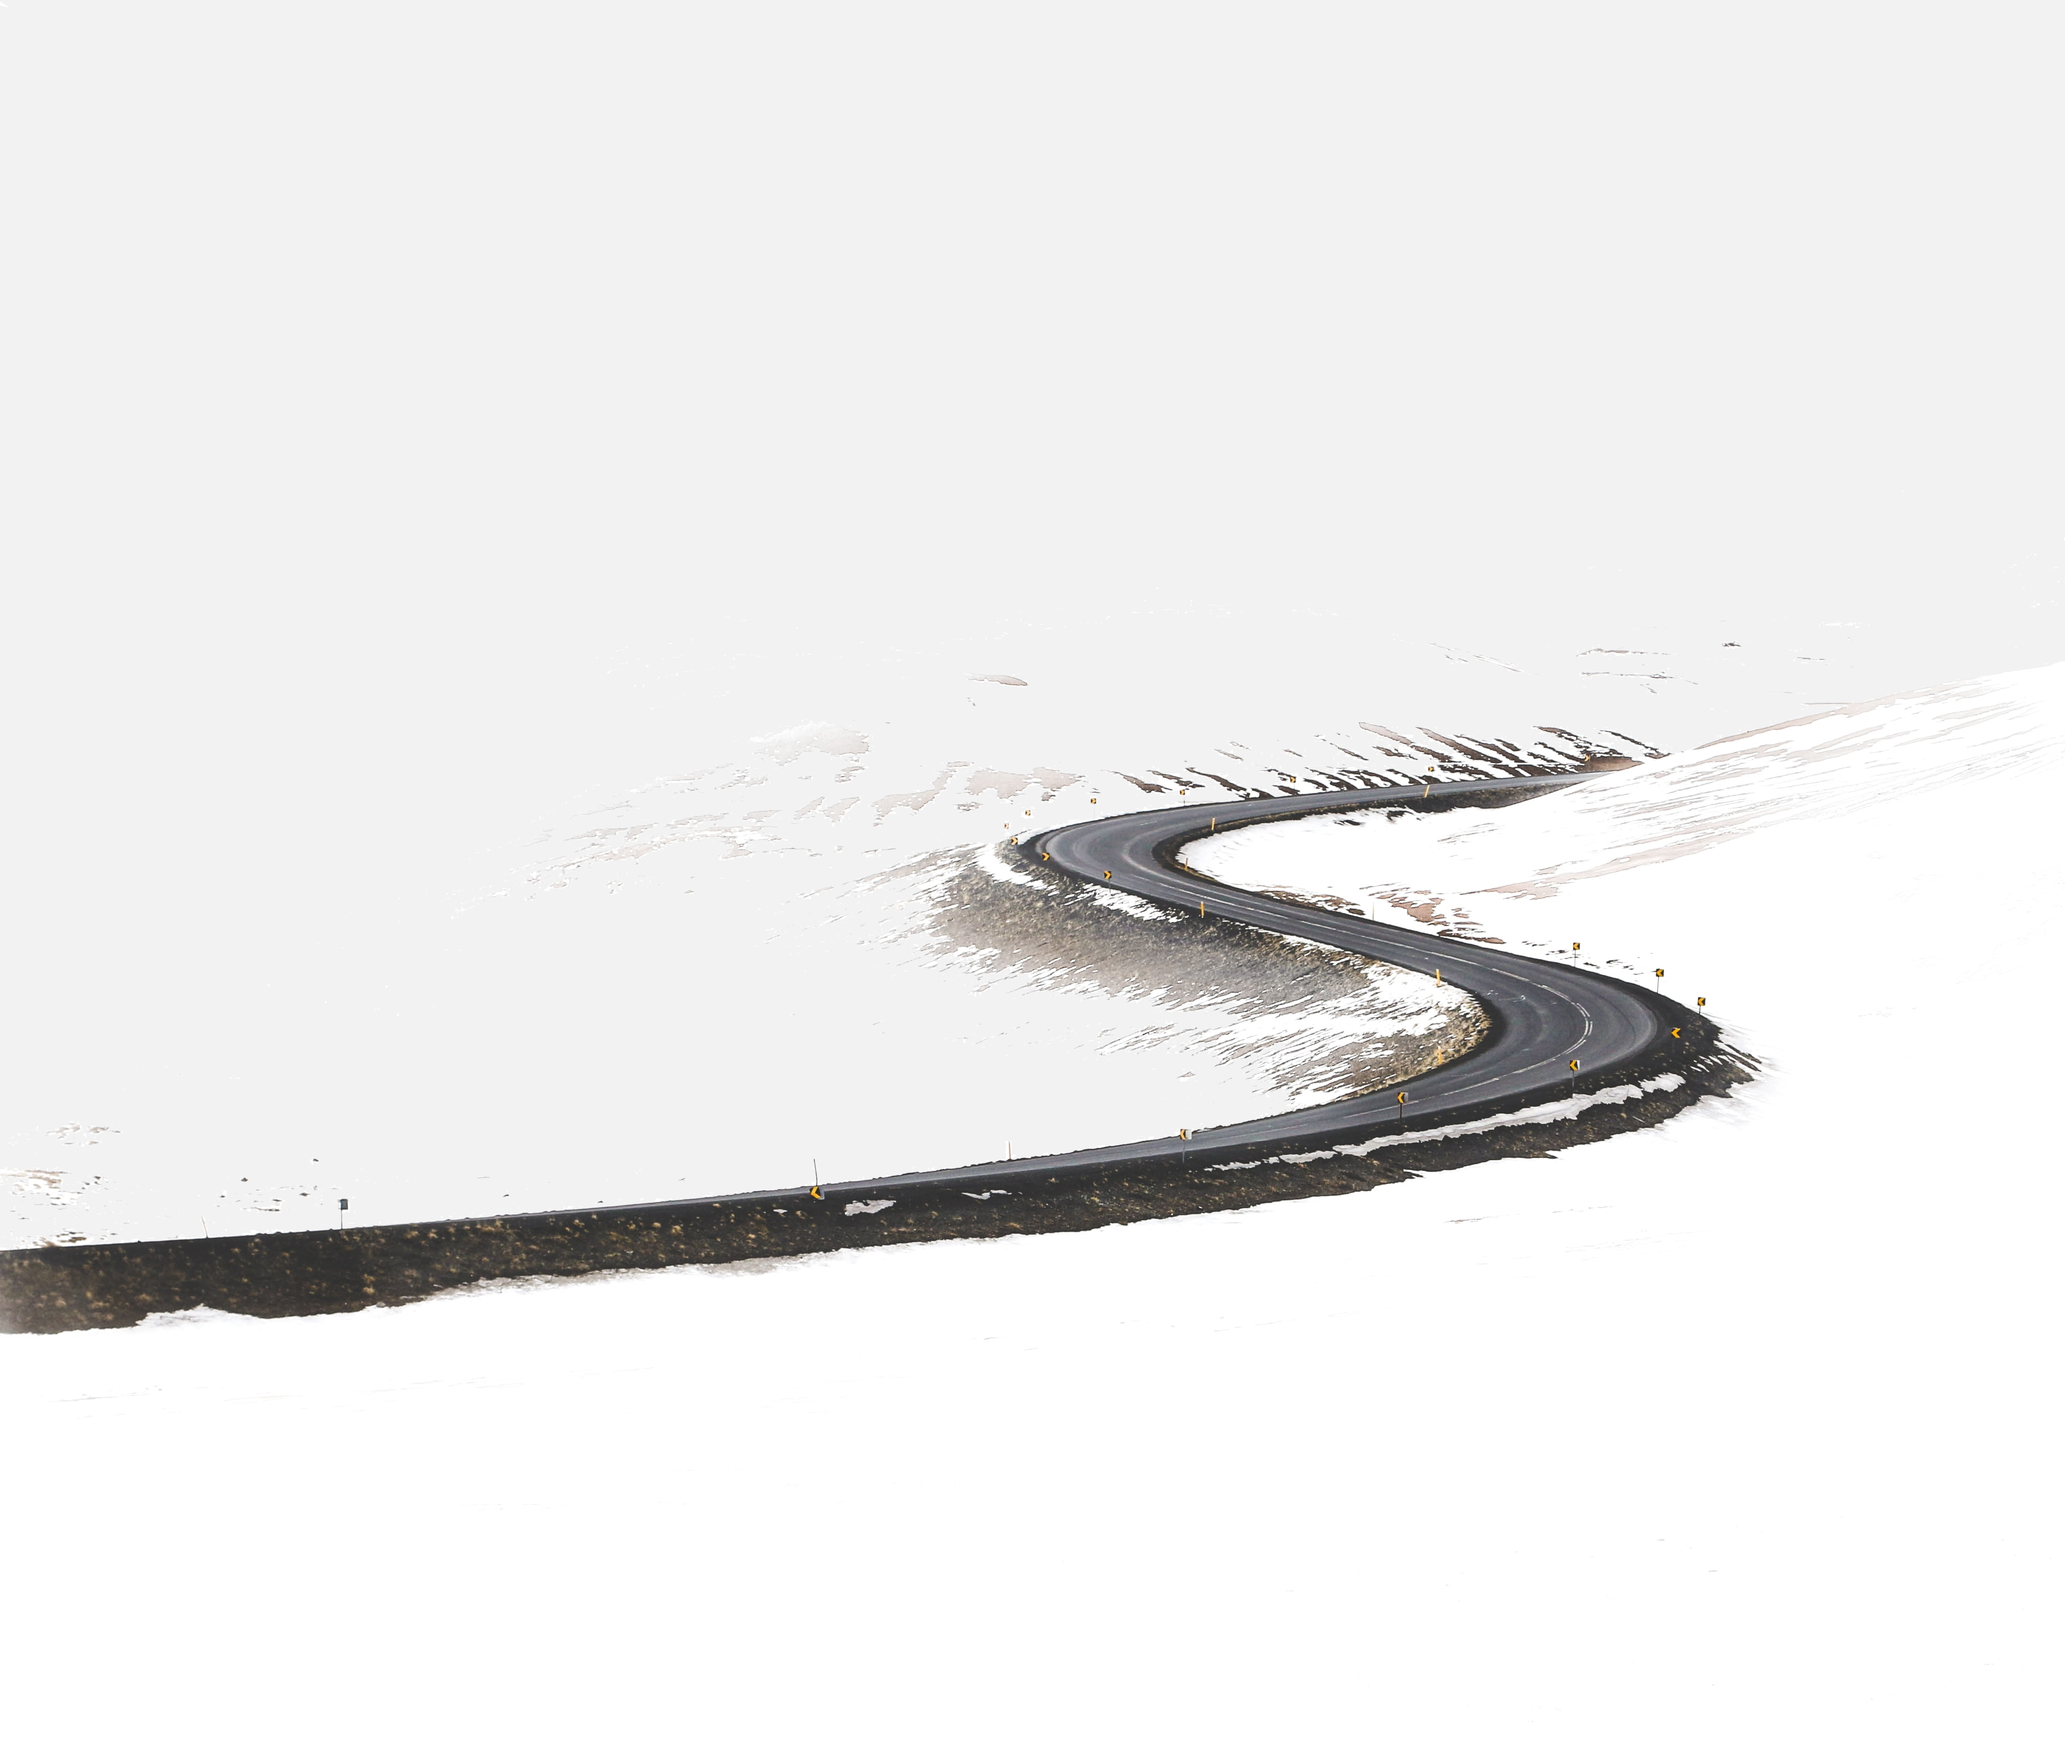
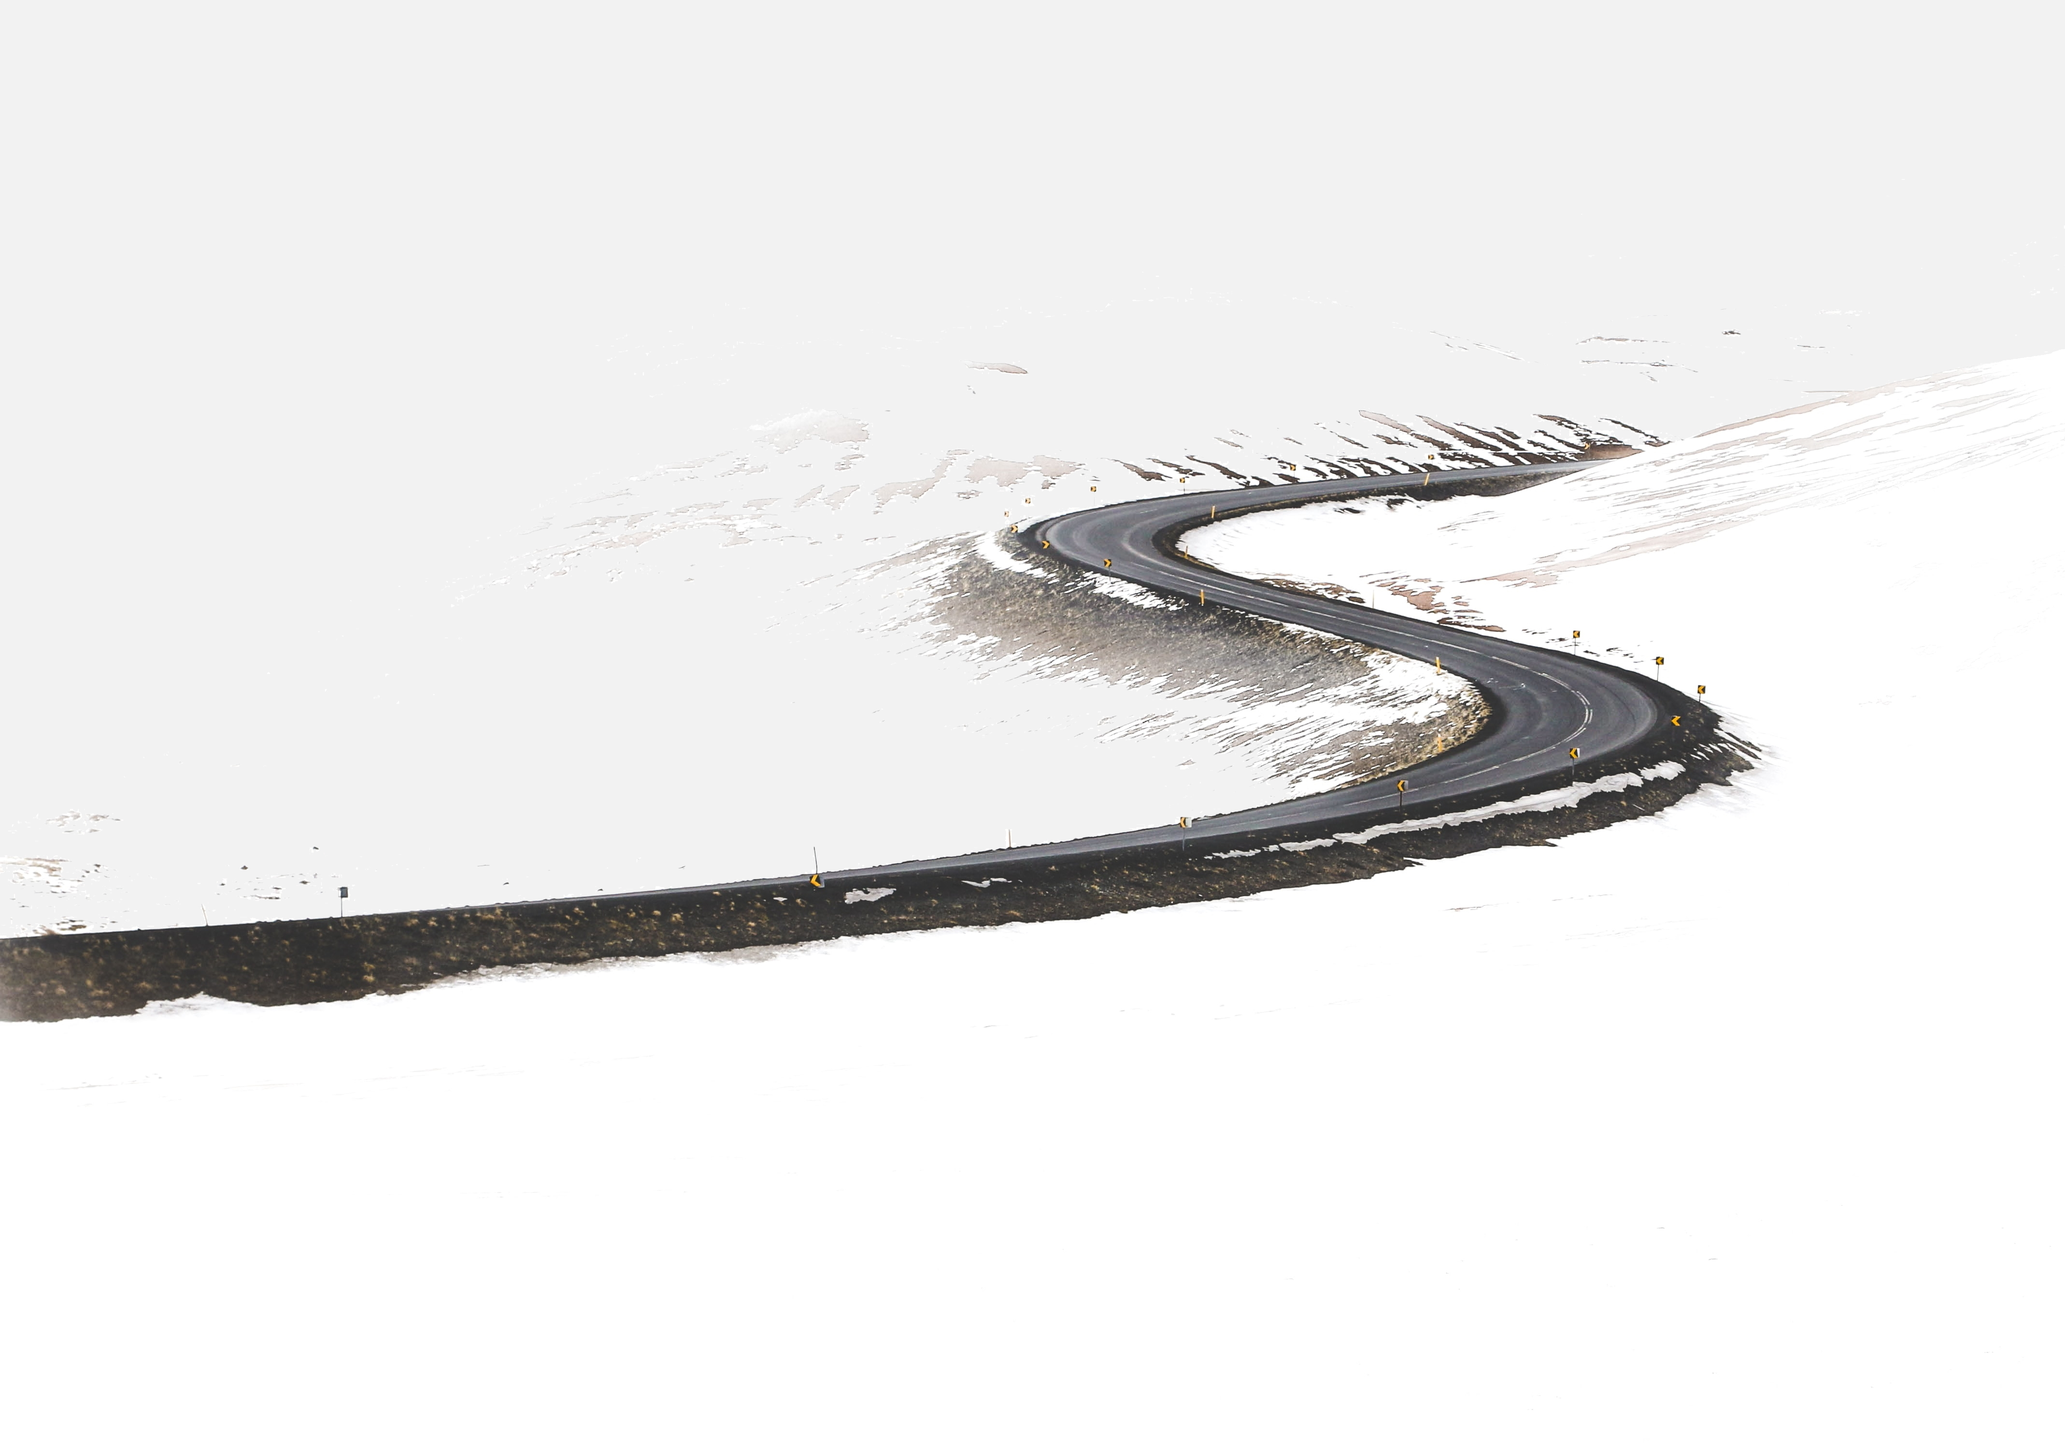
fix background image positioning and mobile responsiveness

Changed region(s): [[0.0, 0.2788, 0.9022, 0.7745], [0.84, 0.2788, 0.8711, 0.3098]]

diff --git a/style.css b/style.css
@@ -8,9 +8,17 @@
   --button-text: white;
   --highlight-color: rgb(156, 0, 156);
 }
+body {
+  /* overflow-x: hidden; */
+  /* position: relative; */
+}
 .body-container {
   transition: var(--speed) ease-in-out;
+  min-width: 100%;
   min-height: 100%;
+  position: absolute;
+  top: 0;
+  left: 0;
 }
 button {
   margin: 0;
@@ -92,6 +100,7 @@ nav .title {
   background-color: rgba(255,255,255,0.9);
   transform: translateX(-100%);
   transition: ease-in-out 0.5s;
+  z-index: 10;
 }
 .sidebar-active {
   transform: translateX(0);
@@ -112,62 +121,75 @@ nav .title {
 
 .container {
   display: grid;
-  background-color: white;
+  /* background-color: red; */
   /* min-height: 90%; */
+  max-width: 100%;
+}
+
+/* hero image */
+.background-image {
+  width: 100%;
+  height: 100%;
+  position: relative;
+  overflow: auto;
+  z-index: -10;
+}
+
+.hero-image {
+  position: absolute;
+  top: 0;
+  left: 0;
+  width: 40rem;
+  min-height: 40rem;
+  width: 100%;
+  max-width: 100%;
 }
 
 /* Banner */
 
-.banner, .funnel {
-  width: 100%;
-  height: 50rem;
-  background-image: url('./images/banner.jpg');
-  background-repeat: no-repeat;
-  background-position: center;
-  background-size: cover;
+.banner {
+  width: 90%;
+  max-width: 90%;
   display: flex;
   flex-direction: column;
   justify-content: flex-end;
+  margin: 15% 0 0 5%;
 }
-.banner div, .funnel div {
-  margin-left: 3rem;
-  margin-bottom: 3rem;
+.banner div {
+  margin-left: 1.5rem;
 }
-.banner p, .funnel p {
+.banner h1 {
   margin: 1rem 0;
   user-select: none;
 }
-.banner div button, .funnel div button{
+.banner div button{
   padding: 0.7rem;
   font-size: 0.8rem;
   background-color: var(--highlight-color);
   color: var(--button-text);
 }
-
-
-
-@media only screen and (max-width: 1200px) {
-  .body-container {
-    
-  }
-  .items {
-    grid-template-columns: repeat(3, 1fr);
-  }
+.info {
+  display: flex;
+  place-items: center;
+  margin: 0 5%;
+  margin-top: 30%;
+  background-color: white;
 }
+.info i {
+  margin-bottom: 1rem;
+}
+.info .info-box {
+  width: 27%;
+  margin: 1.5rem;
+}
+
 @media only screen and (max-width: 850px) {
-  .categories {
-    grid-template-columns: repeat(3, 1fr);
-  }
-  .items {
-    grid-template-columns: repeat(2, 1fr);
-  }
+
 }
 @media only screen and (max-width: 770px) {
-  .body-container {
-    margin: 0 0.1rem;
-  }
   .navbar-right {
-    grid-template-columns: 5fr 1fr;
+    margin-left: auto;
+    grid-template-columns: 0fr 4rem;
   }
   .nav-icons .menu-button {
     display: block;
@@ -179,7 +201,6 @@ nav .title {
   .navbar-items li {
     margin: 0;
   }
-
   @keyframes slideAndHide {
     0% {width: 80%;}
     40% {width: 40%;}
@@ -189,8 +210,21 @@ nav .title {
       overflow: hidden;
     }
   }
-  .categories {
-    grid-template-columns: repeat(2, 1fr);
+
+  .banner {
+    margin-top: 7rem;
+    max-width: 100%;
+  }
+  .banner div {
+    margin: 0;
+    max-width: 100%;
+  }
+  .info {
+    margin-top: 15rem;
+    flex-direction: column;
+  }
+  .info .info-box {
+    width: 90%;
   }
 
-}
+} 

diff --git a/index.html b/index.html
@@ -17,9 +17,12 @@
         <li><a href="./contact.html">Contact</a></li>
       </ul>
     </div>
+    <div class="background-image">
+      <img class="hero-image" src="./images/banner.jpg">
+    </div>
     <div class="body-container">
       <nav>
-        <a href="./index.html" class="title"><i class="fas fa-desktop"></i><span>UParts</span></a>
+        <a href="./index.html" class="title"><i class="fas"></i><span>Snowy Roads</span></a>
         <div class="navbar-right">
           <ul class="navbar-items">
             <li><a href="./home.html">Home</a></li>
@@ -35,11 +38,33 @@
       <div class="container">
         <div class="banner">
           <div>
-            <p>The road less traveled</p>
+            <h1>The road less traveled</h1>
             <button>Start my Journey</button>
           </div>
         </div>
-      
+        <div class="info">
+          <div class="info-box">
+            <i class="fas fa-calendar-alt fa-3x"></i>
+            <p>
+              Book your trip now, and experience the snowy wonderland.
+            </p>
+          </div>
+          <div class="info-box">
+            <i class="fas fa-unlock-alt fa-3x"></i>
+            <p>
+              Unlock hidden deals right here, get the most out of your money.
+            </p>
+          </div>
+          <div class="info-box">
+            <i class="far fa-thumbs-up fa-3x"></i>
+            <p>
+              Create an everlasting memory to bring your family closer together.
+            </p>
+          </div>
+        </div>
+        <div class="testimonial">
+
+        </div>
       </div>
     </div>
   </body>
